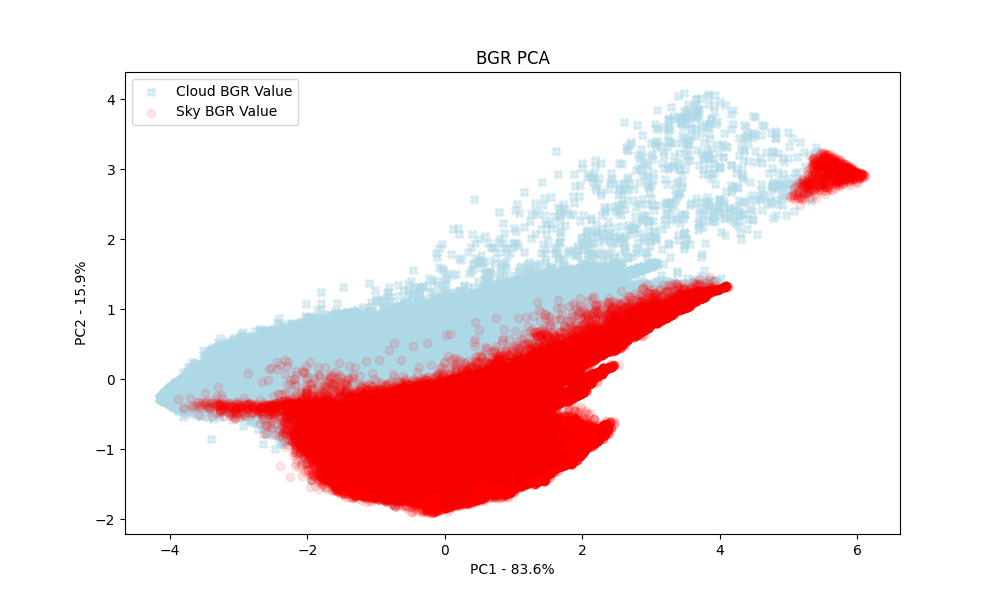
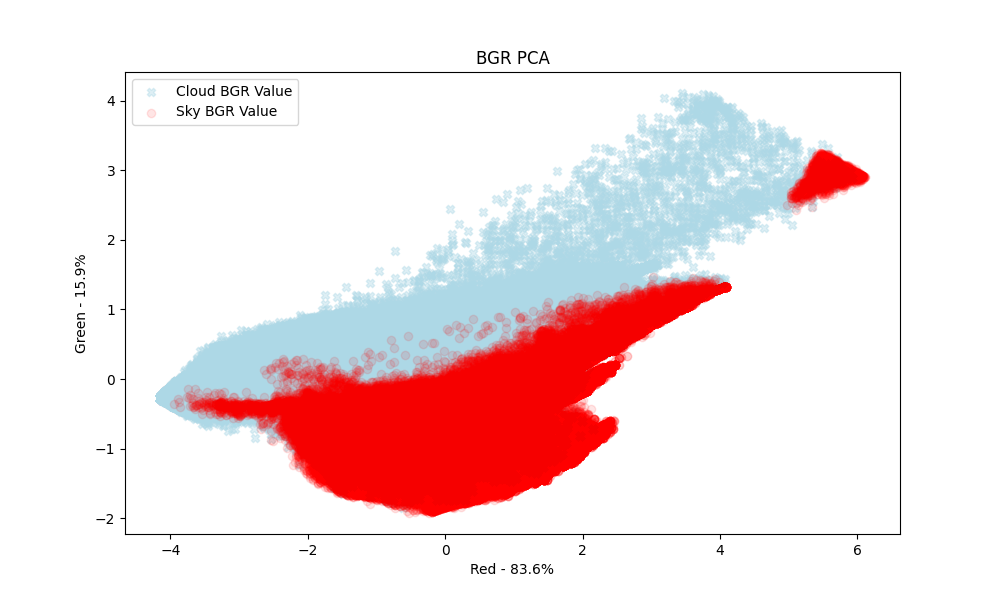
graph coolness

diff --git a/pca_graphs.py b/pca_graphs.py
@@ -194,10 +194,10 @@ def main(Blocked, Reference, Graphs):
     sky_hsv_num = 1
     sky_bgr_num = 1
 
-    bgrBarPath = os.path.join(Graphs,'BGRPcaGraph-esp.png')
-    hsvBarPath = os.path.join(Graphs,'HSVPcaGraph-esp.png')
-    bgrScreePath = os.path.join(Graphs,'BGRScree-esp.png')
-    hsvScreePath = os.path.join(Graphs,'HSVScree-esp.png')
+    bgrBarPath = os.path.join(Graphs,'BGRPcaGraph.png')
+    hsvBarPath = os.path.join(Graphs,'HSVPcaGraph.png')
+    bgrScreePath = os.path.join(Graphs,'BGRScree.png')
+    hsvScreePath = os.path.join(Graphs,'HSVScree.png')
    
    # Scraping each image in our designated image folders
     for (refroot, _, referenceImages), (blockroot, _, blockedImages) in zip(os.walk(Reference), os.walk(Blocked)):
@@ -282,7 +282,7 @@ def main(Blocked, Reference, Graphs):
     """Calculate variance and labels"""
     print("> Creating BGR Screeplot ...")
     bgr_per_var = np.round(bgr_pca.explained_variance_ratio_*100, decimals=1)
-    bgr_labels = ["PC" + str(i) for i in range(1, len(bgr_per_var)+1)]
+    bgr_labels = ["red","green","blue"]
     plt.bar(x=range(1, len(bgr_per_var)+1), height = bgr_per_var, tick_label = bgr_labels)
     plt.ylabel('Variance percentage')
     plt.xlabel('Principle component')
@@ -293,7 +293,7 @@ def main(Blocked, Reference, Graphs):
 
     print("> Creating HSV Screeplot...")
     hsv_per_var = np.round(hsv_pca.explained_variance_ratio_*100, decimals=1)
-    hsv_labels = ["PC" + str(i) for i in range(1, len(hsv_per_var)+1)]
+    hsv_labels = ["value","saturation","hue"]
     plt.bar(x=range(1, len(hsv_per_var)+1), height = hsv_per_var, tick_label = hsv_labels)
     plt.ylabel('Variance percentage')
     plt.xlabel('Principle component')
@@ -339,12 +339,12 @@ def main(Blocked, Reference, Graphs):
 
     print("> Creating BGR PCA Scatterplot ...")
     _,ax = plt.subplots(figsize=(10,6))
-    ax.scatter(bgr_cloud_df.PC1,bgr_cloud_df.PC2, c = 'lightblue',alpha = 0.4,marker = 'X',label = 'Cloud BGR Value')
-    ax.scatter(bgr_sky_df.PC1,bgr_sky_df.PC2,c = 'red',alpha = 0.1,marker = 'o',label = 'Sky BGR Value')
+    ax.scatter(bgr_cloud_df.red,bgr_cloud_df.green, c = 'lightblue',alpha = 0.4,marker = 'X',label = 'Cloud BGR Value')
+    ax.scatter(bgr_sky_df.red,bgr_sky_df.green,c = 'red',alpha = 0.1,marker = 'o',label = 'Sky BGR Value')
     plt.legend(loc="upper left")
     plt.title('BGR PCA')
-    plt.xlabel('PC1 - {0}%'.format(bgr_per_var[0]))
-    plt.ylabel('PC2 - {0}%'.format(bgr_per_var[1]))
+    plt.xlabel('Red - {0}%'.format(bgr_per_var[0]))
+    plt.ylabel('Green - {0}%'.format(bgr_per_var[1]))
     plt.savefig(bgrBarPath)
     plt.clf
     print(" └ BGR Scatterplot created.")
@@ -357,12 +357,12 @@ def main(Blocked, Reference, Graphs):
 
     print("> Creating HSV PCA ScatterPlot ...")
     _,ax = plt.subplots(figsize=(10,6))
-    ax.scatter(hsv_cloud_df.PC1,hsv_cloud_df.PC2, c = 'lightblue',alpha = 0.4,marker = 'X',label = 'Cloud HSV Value')
-    ax.scatter(hsv_sky_df.PC1,hsv_sky_df.PC2,c = 'red',alpha = 0.1,marker = 'o',label = 'Sky HSV Value')
+    ax.scatter(hsv_cloud_df.value,hsv_cloud_df.saturation, c = 'lightblue',alpha = 0.4,marker = 'X',label = 'Cloud HSV Value')
+    ax.scatter(hsv_sky_df.value,hsv_sky_df.saturation,c = 'red',alpha = 0.1,marker = 'o',label = 'Sky HSV Value')
     plt.legend(loc="upper left")
     plt.title('HSV PCA')
-    plt.xlabel('PC1 - {0}%'.format(hsv_per_var[0]))
-    plt.ylabel('PC2 - {0}%'.format(hsv_per_var[1]))
+    plt.xlabel('Value - {0}%'.format(hsv_per_var[0]))
+    plt.ylabel('Saturation- {0}%'.format(hsv_per_var[1]))
     plt.savefig(hsvBarPath)
     plt.clf
     print(" └ HSV Screeplot created")
@@ -379,8 +379,8 @@ if __name__ == '__main__':
 
     start = datetime.now()
 
-    Blocked = r'Blocked-Images-esp'
-    Reference = r'Reference-Images-esp'
+    Blocked = r'Blocked-Images'
+    Reference = r'Reference-Images'
     Graphs = r"Graphs"
 
     if filesync(Blocked, Reference):

diff --git a/proposal.md b/proposal.md
@@ -1,0 +1,139 @@
+# Background
+
+Quick yet accurate Weather predication is imperative for certain industries to now only survive, but simply exist. An important factor of these is the ability to track, categorize and predict movements of clouds within a given area. Ceilometers use a laser/light source to determine a cloud's base or ceiling height. A  Ceilometer usually can also measure aerosol concentration in air [[1]](#1). The downside is that ceilometers have a relatively small area of measurement directly above the unit which would not be an issue, however, as of 2020 they can cost around USD $30 000 per unit [[3]](#3).
+
+There exists however, high quality satellite data mada available by NASA. The new MISR Level 2 Cloud product contains height-resolved, cloud motion vectors at 17.6 km resolution; cloud top heights at 1.1 km resolution; and cross-track cloud motion components at 1.1 km resolution [[2]](#2). Now this data is made available to be used by software engineers to visualize as needed. The issue? This data is not meant for real-time application on a  local area level. These products are made for global application, collecting data only on the sunlit side of earth over the course of 9 days [[4]](#4). 
+
+A  better solution for the local-area level must be thought of then, to better predict cloud movement and category.
+
+
+
+## Proposal
+
+In the case of local cloud monitoring, what I propose as needed is real-time, modular, and open-source as to avoid contractual right to repair issues.
+
+My plan is a mesh network comprised of simple esp32-based devices, equipped with a medium-resolution camera, hygrometer, altimeter, and gyroscope.
+
+I propose that with these devices, environmental readings and pictures of the sky can be transmitted to a central server in set time intervals for processing in essentially real-time. These measurements and images, in theory, can be used to determine cloud characteristics and movement in a way not done anywhere else. 
+This system can then by used in conjunction with existing systems to provide more accurate weather data for a local area.
+
+
+### Cloud Height
+
+An important factor for cloud monitoring is obtaining the cloud base height.
+The cloud base is  the lowest point of the visible portion of a cloud, usually expressed in meters above sea level/planet surface.
+This can be calculated in close estimation by finding the lifted condensate level.
+The lifted condensation level or lifting condensation level (LCL) is formally defined as the height or pressure at which the relative humidity (RH) of an air parcel will reach 100% with respect to liquid water when it is cooled by dry adiabatic lifting. [[5]](#5) The LCL can be approximated using the dew point,humidity and temperature a few diffrent ways. The most popular being Espy's equation, which has been shown to be satifactory for accurate readings within 200m. [[6]](#6)
+
+
+### Cloud Identification
+
+I have discovered it possible through a previous proof of concept, that it is theoretically possible to identify clouds from images of the sky, using only the visual colour space. In short, clouds are can be shown to be quite diffrent in their colour content from the surrounding sky or landmarks (obviously). This can be seen in the below graph, showing the differences in the BGR colour space of clouds vs the sky.
+
+<br>
+<br>
+
+![BGR Frequency Chart for High Res Images](/Graphs/BGRBarGraph.png "BGR Frequency Chart for High Res Images")
+##### Figure showing frequency distribution in BGR colour channels of Sky versus Cloud Image set
+<br>
+<br>
+
+<br>
+<br>
+
+This separation can also be seen in the HSV color space, as shown below.
+![HSV Frequency Chart for High Res Images](/Graphs/HSVBarGraph.png "BGR Frequency Chart for High Res Images")
+##### Figure showing frequency distribution in HSV colour channels of Sky versus Cloud Image set
+<br>
+<br>
+
+<br>
+<br>
+
+Using singular value decomposition, we can view each colour channel separaetly as a principle component. Here we can see that two of each of our channels can be used to separate the cloud vs sky pixel values. Scree plots showing these can be seen below.
+![BGR ScreePlot for High Res Images](/Graphs/BGRScree.png "BGR ScreePlot for High Res Images")![HSV ScreePlot for High Res Images](/Graphs/HSVScree.png "HSV ScreePlot for High Res Images")
+##### Figure showing ScreePlot of HSV colour channels in Sky versus Cloud Image set
+<br>
+<br>
+
+#### Cloud Type Identification
+
+This information then, can be used to train models identify the cloud type. If we are able to estimate the coud height, as well as having the environmental readings and a medium-resoltuion image, this should in theory be simple. 
+* (While this is usualy done while also using IR information to determine the cloud temperature, due to the fact camera will be pointing upwards, this is not an option.)
+
+I propose training a simple classification model using both this data. Once the model is able to classify the cloud type and state its position in the image, we can move onto assigning it a motion vector. 
+
+
+### Cloud Movement Information
+
+Assigning motion vectors to identified clouds allows us to determine the direction, speed and size of the cloud formation.
+This is done after undistorting the image using the camera's intrinsic distortion matrix, then mapping the cloud image onto 3D space given the angle of the camera to the sky.
+A cloud's size can be assigned from the image. This is important not only to keep a record of for tracking weather changes, but also determining the future cloud shade on the ground.
+A motion vector can be assigned to a cloud by comparing two images taken within the set time interval.
+In a situation where a cloud is larger than the viewing area of the camera, this idea of assigning motion vectors breaks down, however, this is where the idea of the mesh network comes into play.
+
+
+### Device arrangement
+
+A mesh network is needed, not only to properly analyze very large clouds, but also to track them across large distances.
+I propose a grid arrangement, where, while the controllers may be placed at diffrent heights, the edge of the view of one controller at a pre-determined height, must be the beginnning of the viewing area of another.
+For example: If a minimum viewing height of 1.98km is chosen (the average minimum height of cumulo-nimbus clouds) [[7]](#7), and a camera with a 90 deg angle of view (relatively small) at that height is used, then an area of ~3.96km can be covered by a single camera. This means that for continuous veiwing, cameras must be placed every ~4km in all directions. In reality, cameras with wider FOVs exist, making this a somewhat worst case scenario.
+
+
+### Bill of materials
+
+1. 4 esp-32 CAM boards to arrange in a grid pattern. I chose [these](https://www.amazon.se/-/en/Freenove-ESP32-WROVER-Compatible-Wireless-Detailed/dp/B09BC5CNHM/ref=d_pd_sbs_sccl_2_4/258-4653752-6686012?pd_rd_w=cLYYr&content-id=amzn1.sym.c4184aba-d168-41de-ae27-7ea9a5ac5302&pf_rd_p=c4184aba-d168-41de-ae27-7ea9a5ac5302&pf_rd_r=J39YTFT9T0YD3286FJ86&pd_rd_wg=UZr9j&pd_rd_r=70d6ad77-67e9-41e1-817d-5663a0cb7a10&pd_rd_i=B09BC5CNHM&psc=1) at ~200kr each
+
+2. 4 medium-quality cameras. I chose the [OV5670](https://www.aliexpress.com/item/1005003006706291.html?spm=a2g0o.productlist.main.11.1fe76789LXf1t9&algo_pvid=186dfeb3-c167-4fac-af7a-992f5e8d79c4&algo_exp_id=186dfeb3-c167-4fac-af7a-992f5e8d79c4-5&pdp_npi=3%40dis%21SEK%21194.13%21126.18%21%21%21%21%21%402100ba4716847273871928704d074c%2112000023187267001%21sea%21SE%210&curPageLogUid=V8FZx2ua980H) at ~300kr each.
+
+3. 4 high accuracy humidity sensors. I chose the [SHT31-D](https://www.electrokit.com/en/product/adafruit-sensirion-sht31-d-temperatur-luftfuktighetssensor/) at  ~230kr each.
+
+4. 4 high accuracy altimeters. I chose the [BMP390](https://www.electrokit.com/en/product/adafruit-bmp390-barometer-and-altimeter/) at ~180kr each.
+
+5. 4 gyroscopes. I chose the [MPU-6050](https://www.electrokit.com/en/product/mpu-6050-accelerometer-3-axel-monterad-pa-kort-2/) at ~52kr each.
+
+All other materials are already possessed.
+
+A total of : 3848 sek
+
+
+### Expected time
+
+If shipping times remain in my favour, I should be able to contruct the  4 weather stations by the end of July, 2023.
+For the requested parts list, supply is short and resources for usage are sparce. 
+
+
+# Bibliography
+
+<a id = "1" href = "https://books.google.se/books?id=_iqUDwAAQBAJ&pg=PA60&redir_esc=y#v=onepage&q&f=false">[1]</a> The National Oceanic and Atmospheric Administration. 16 November 2012. p. 60.
+
+<a id = "2" href = "https://www-cdn.eumetsat.int/files/2020-04/pdf_conf_p60_s6_03_mueller_v.pdf">[2]</a> K. Mueller, M. Garay, C. Moroney, V. Jovanovic (2012). MISR 17.6 KM GRIDDED CLOUD MOTION VECTORS: OVERVIEW AND ASSESSMENT, Jet Propulsion Laboratory, 4800 Oak Grove, Pasadena, California.
+
+<a id = "3" href = "https://ieeexplore.ieee.org/stamp/stamp.jsp?arnumber=9088230">[3]</a> F .Rocadenbosch, R. Barragán , S.J. Frasier ,J. Waldinger, D.D. Turner , R.L. Tanamachi, D.T. Dawson (2020) Ceilometer-Based Rain-Rate Estimation: A Case-Study Comparison With S-Band Radar and Disdrometer Retrievals in the Context of VORTEX-SE
+
+<a id = "4" href = "https://misr.jpl.nasa.gov/mission/misr-instrument/spatial-resolution/">[4]</a> “Misr: Spatial resolution,” NASA, https://misr.jpl.nasa.gov/mission/misr-instrument/spatial-resolution/ (accessed May 19, 2023). 
+
+<a id = "5" href = "https://www.ncl.ucar.edu/Document/Functions/Contributed/tlcl_rh_bolton.shtml">[5]</a> “tlcl_rh_bolton,” Tlcl_rh_bolton, https://www.ncl.ucar.edu/Document/Functions/Contributed/tlcl_rh_bolton.shtml (accessed May 21, 2023). 
+
+
+<a id = "6" href = https://www.researchgate.net/publication/290441042_A_Simplified_Analytical_Method_to_Calculate_the_Lifting_Condensation_Level_from_a_Skew-T_Log-P_Chart#pf3>[6]</a> Muñoz, Erith & Mundaray, Rafael & Falcon, Nelson. (2015). A Simplified Analytical Method to Calculate the Lifting Condensation Level from a Skew-T Log-P Chart. Avances en Ciencias e Ingenieria. 7. C124-C129. 
+
+<a id = "6" href = https://cloudatlas.wmo.int/en/observation-of-clouds-from-aircraft-descriptions-cumulonimbus.html>[7]</a> [1] Wmo, “Cumulonimbus,” International Cloud Atlas, https://cloudatlas.wmo.int/en/observation-of-clouds-from-aircraft-descriptions-cumulonimbus.html (accessed May 21, 2023). 
+
+
+
+
+
+
+
+
+
+
+
+
+
+
+
+
+
+

diff --git a/README.md b/README.md
@@ -80,7 +80,7 @@ NOTE: The divisons in the bar graphs is an artifact from saving the graphs as pn
 
 #### Frequency Chart for High Res Images
 
-![BGR Frequency Chart for High Res Images](/Graphs/BGRBarGraph.png "BGR Frequency Chart for High Res Images")![BGR Frequency Chart for High Res Images](/Graphs/HSVBarGraph.png "BGR Frequency Chart for High Res Images")
+![BGR Frequency Chart for High Res Images](/Graphs/BGRBarGraph.png "BGR Frequency Chart for High Res Images")![HSV Frequency Chart for High Res Images](/Graphs/HSVBarGraph.png "BGR Frequency Chart for High Res Images")
 
 #### Frequency Chart for ESP Images
 
